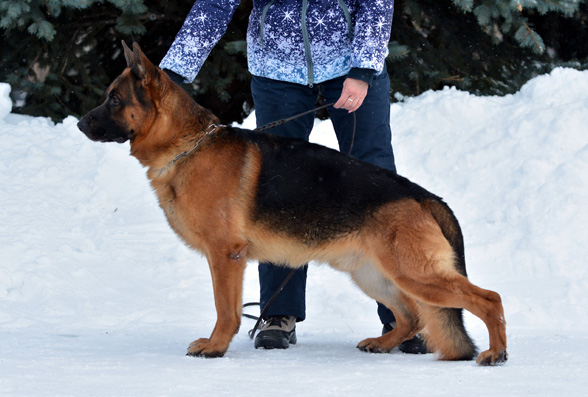
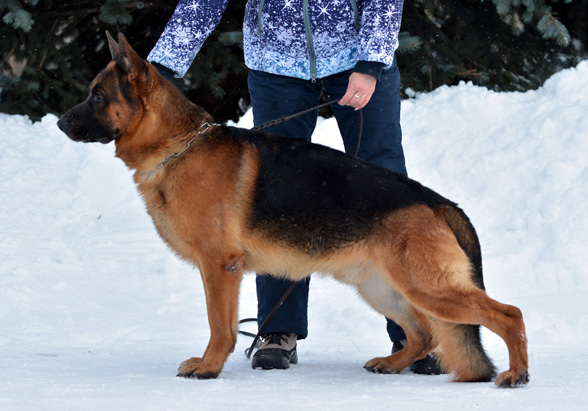
Update Alex photo

diff --git a/males.htm b/males.htm
@@ -47,7 +47,7 @@
 			</ul>
 
 			<p>ОКД-1, ЗКС-1; HD-A, ED-0; Kkl 1П</p>
-			<img src="/img/photos/aleks/main-new4.jpg" width="588" height="397" alt="Фотография Ersteshrit Aleks" />
+			<img src="/img/photos/aleks/main-new4.jpg" width="588" height="411" alt="Фотография Ersteshrit Aleks" />
 			<p><a href="aleks-photos.htm">Фотографии</a> | <a href="aleks-video.htm">Видео</a> | <a href="aleks-shows.htm">Результаты выставок</a></p>
 
 			<p>Родословная: <a href="//www.pedigreedatabase.com/german_shepherd_dog/dog.html?id=2466950" target="_blank">Pedigree Database</a>,<br/><a href="http://database.gsdog.ru/dog.php?screen=1&amp;id=28512" target="_blank">GSDOG</a></p>
